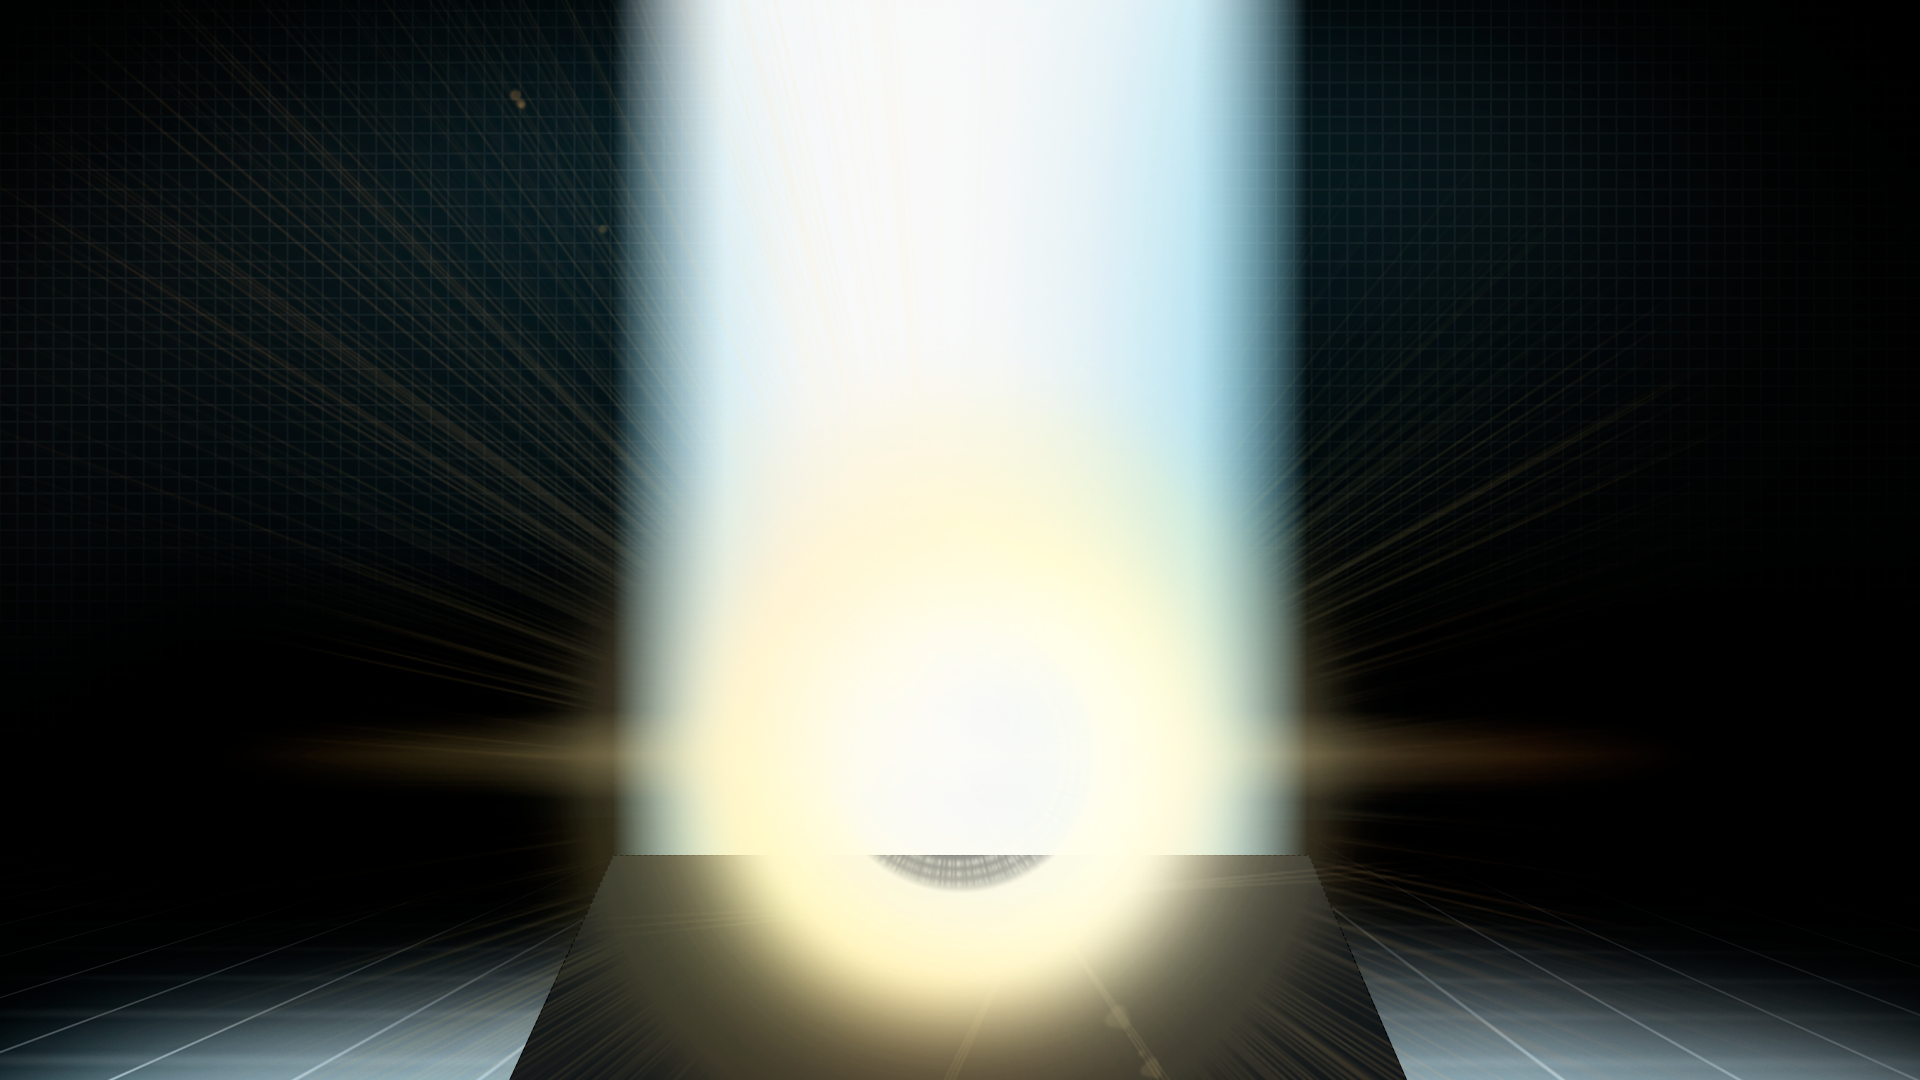
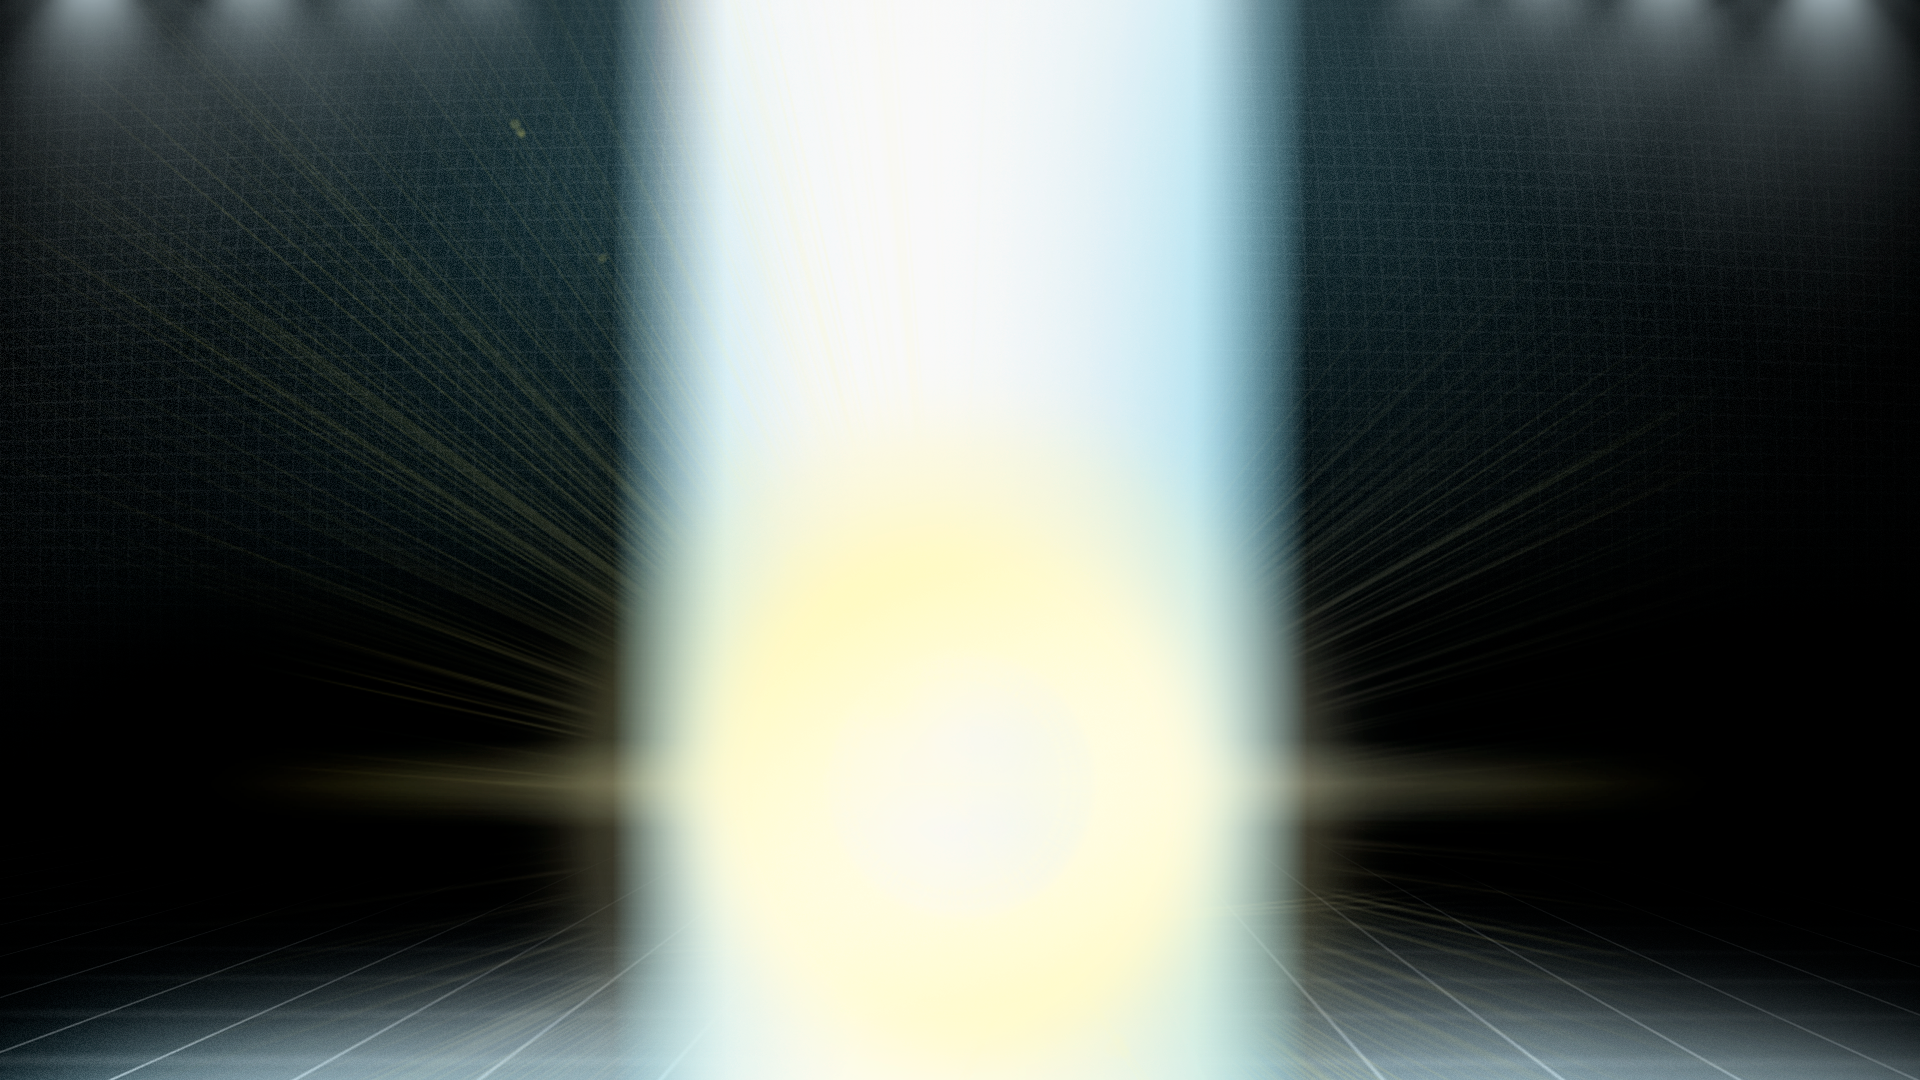
mas

diff --git a/index.html b/index.html
@@ -62,7 +62,7 @@
 
         <div>
             <h2>COOPERATIVA</h2>
-            <p>UNIDAD · CONTROL · PROGRESO</p>
+            <p>UNIDAD · LUZ · CONTENCION </p>
         </div>
 
     </div>
@@ -84,7 +84,7 @@
 
 <section class="hero">
 
-    <span>BIENVENIDO, ██████████</span>
+    <span>BIENVENIDO, █-███</span>
 
     <h1>
         LA COOPERACION<br>
@@ -93,7 +93,7 @@
     </h1>
 
     <p>
-        La maxima representacion de desinteres humano, busqueda del bien comun y progreso colectivo. La cooperacion es la base de la sociedad, el pilar de la civilizacion y el camino hacia un futuro mejor.
+        La maxima representacion de desinteres humano, busqueda del bien comun y progreso colectivo. La cooperacion es la base de la sociedad, el pilar de la civilizacion y el camino hacia el unico futuro que nos queda.
     </p>
 
     <button id="directrices">Conocer Directrices</button>
@@ -189,7 +189,7 @@
 
 <footer>
 
-    PORTAL OFICIAL · ACCESO AUTORIZADO ÚNICAMENTE
+    PORTAL OFICIAL · ÚNICAMENTE ACCESO AUTORIZADO 
     <br><br>
     SI ESTÁ LEYENDO ESTO SIN AUTORIZACIÓN, SU UBICACIÓN YA HA SIDO REGISTRADA
 
@@ -197,7 +197,7 @@
 <script src="script.js"></script>
 
 <!-- Realmente no entiendo como es que el dominio de esta pagina sigue en pie despues de tanto tiempo
-parece haber interferencias con varias de sus funciones, no logro captar de donde viene aunque no me parece relevante
+parece haber interferencias con varias de sus funciones, no logro captar de donde viene
 tal vez con algunos ajustes podramos recuperar informacion relevante  
 -->
 
